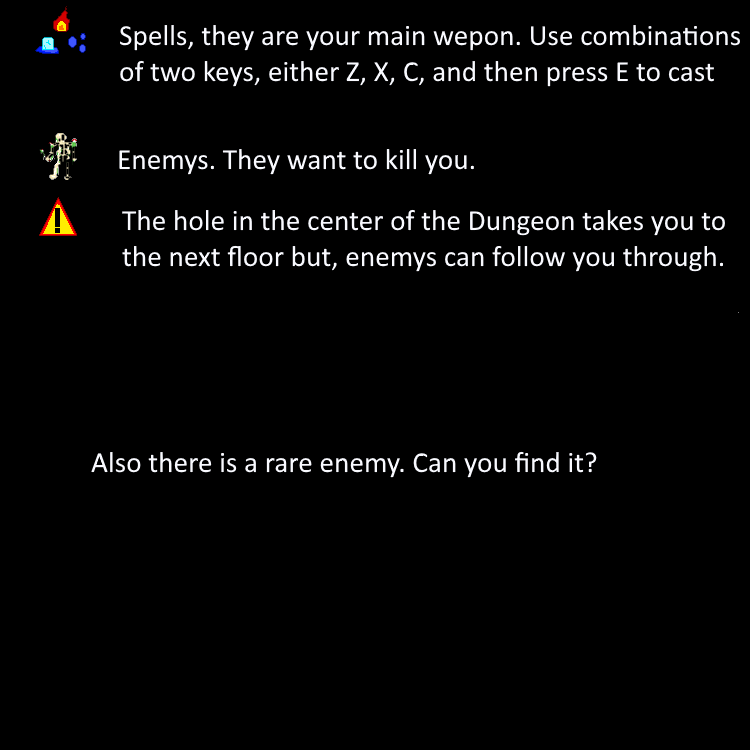
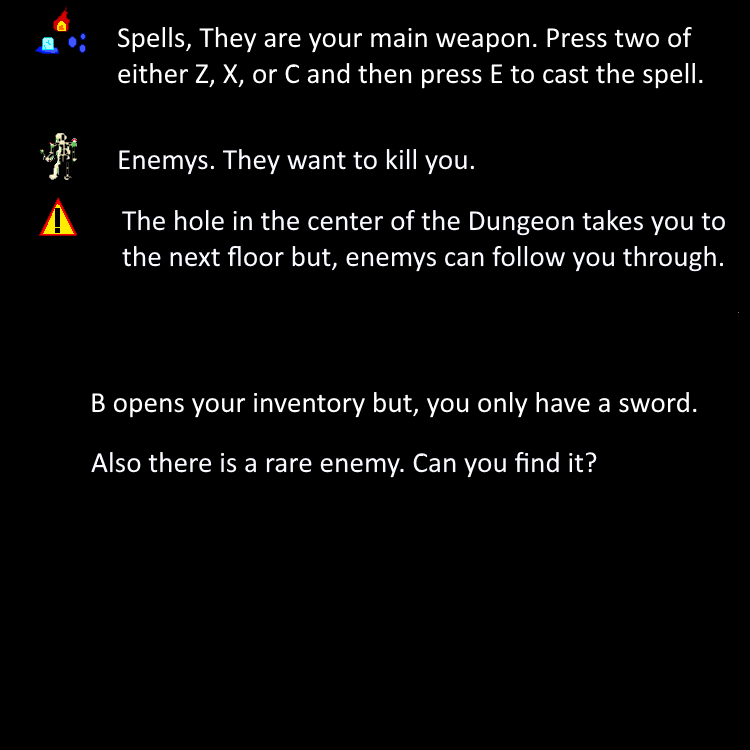
extras

Changed region(s): [[0.1533, 0.0307, 1.0, 0.1227], [0.1227, 0.5213, 0.92, 0.552]]

diff --git a/Looters/src/lootPackage/GamePanel.java b/Looters/src/lootPackage/GamePanel.java
@@ -45,6 +45,7 @@ public class GamePanel extends JPanel implements ActionListener, KeyListener {
 	public static BufferedImage swordImg;
 	public static BufferedImage holeImg;
 	public static BufferedImage helpImg;
+	public static BufferedImage waterOrbImg;
 	Font normal;
 	int SpellTime;
 	String spell = "";
@@ -145,6 +146,7 @@ public class GamePanel extends JPanel implements ActionListener, KeyListener {
 			attackImg = ImageIO.read(this.getClass().getResourceAsStream("AttackSelection.png"));
 			invImg = ImageIO.read(this.getClass().getResourceAsStream("inventory.png"));
 			swordImg = ImageIO.read(this.getClass().getResourceAsStream("Weapon.png"));
+			waterOrbImg = ImageIO.read(this.getClass().getResourceAsStream("waterOrb.png"));
 			helpImg = ImageIO.read(this.getClass().getResourceAsStream("HelpScreen.png"));
 
 		} catch (IOException e) {
@@ -563,6 +565,25 @@ public class GamePanel extends JPanel implements ActionListener, KeyListener {
 			}
 			if (player.rotation == 3) {
 				Projectile fireball = new Projectile("fireImg", 3, 400, 20, player.x - 50, player.y, 50, 50);
+				om.addObject(fireball);
+			}
+			spell = "";
+		}
+		if (spell.equalsIgnoreCase("LightLight")) {
+			if (player.rotation == 0) {
+				Projectile fireball = new Projectile("waterOrbImg", 0, 400, 20, player.x, player.y + 50, 50, 50);
+				om.addObject(fireball);
+			}
+			if (player.rotation == 1) {
+				Projectile fireball = new Projectile("waterOrbImg", 1, 400, 20, player.x + 50, player.y, 50, 50);
+				om.addObject(fireball);
+			}
+			if (player.rotation == 2) {
+				Projectile fireball = new Projectile("waterOrbImg", 2, 400, 20, player.x, player.y - 50, 50, 50);
+				om.addObject(fireball);
+			}
+			if (player.rotation == 3) {
+				Projectile fireball = new Projectile("waterOrbImg", 3, 400, 20, player.x - 50, player.y, 50, 50);
 				om.addObject(fireball);
 			}
 			spell = "";

diff --git a/Looters/src/lootPackage/Projectile.java b/Looters/src/lootPackage/Projectile.java
@@ -22,6 +22,7 @@ public class Projectile extends GameObject {
 	public static BufferedImage fireImg;
 	public static BufferedImage lightningImg;
 	public static BufferedImage iceOrbImg;
+	public static BufferedImage waterOrbImg;
 
 	public Projectile(String img, int rotation, int range, int speed, int x, int y, int width, int height) {
 		super();
@@ -29,6 +30,7 @@ public class Projectile extends GameObject {
 			fireImg = ImageIO.read(this.getClass().getResourceAsStream("FireBlast.png"));
 			lightningImg = ImageIO.read(this.getClass().getResourceAsStream("thunderShock.png"));
 			iceOrbImg = ImageIO.read(this.getClass().getResourceAsStream("OrbOfWinter.png"));
+			waterOrbImg = ImageIO.read(this.getClass().getResourceAsStream("waterOrb.png"));
 		} catch (IOException e) {
 			e.printStackTrace();
 		}
@@ -72,6 +74,9 @@ public class Projectile extends GameObject {
 		}
 		if (img.equalsIgnoreCase("lightningImg")) {
 			g.drawImage(lightningImg, x, y, null);
+		}
+		if (img.equalsIgnoreCase("waterOrbImg")) {
+			g.drawImage(waterOrbImg, x, y, null);
 		}
 		if (img.equalsIgnoreCase("iceOrbImg")) {
 			Graphics2D g2 = (Graphics2D) g;
